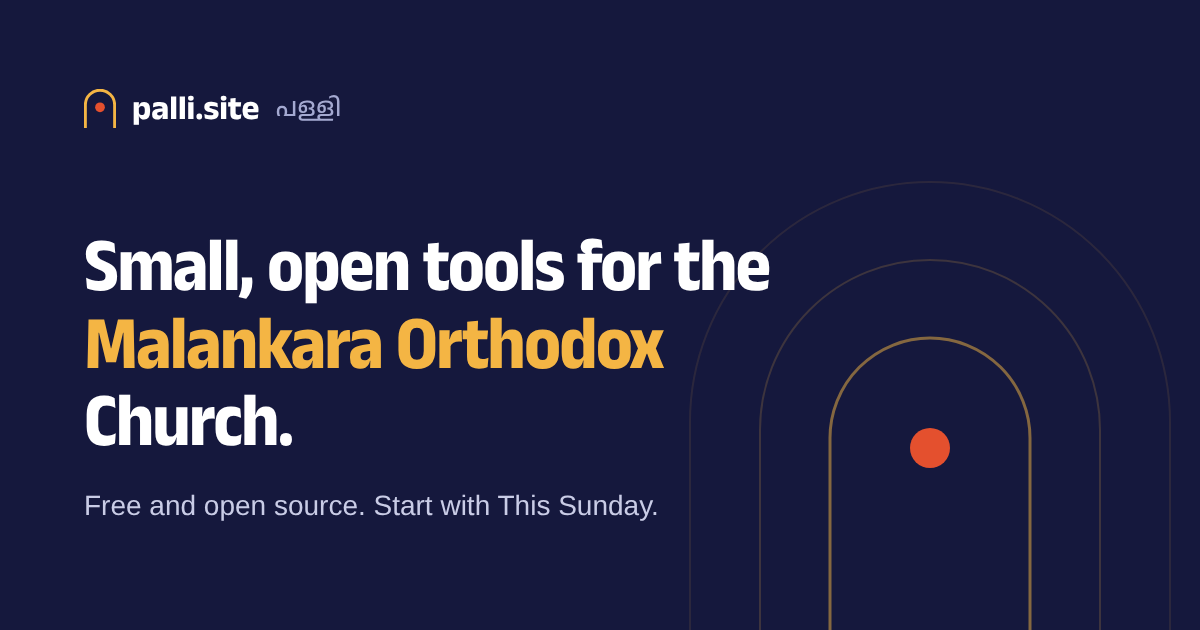
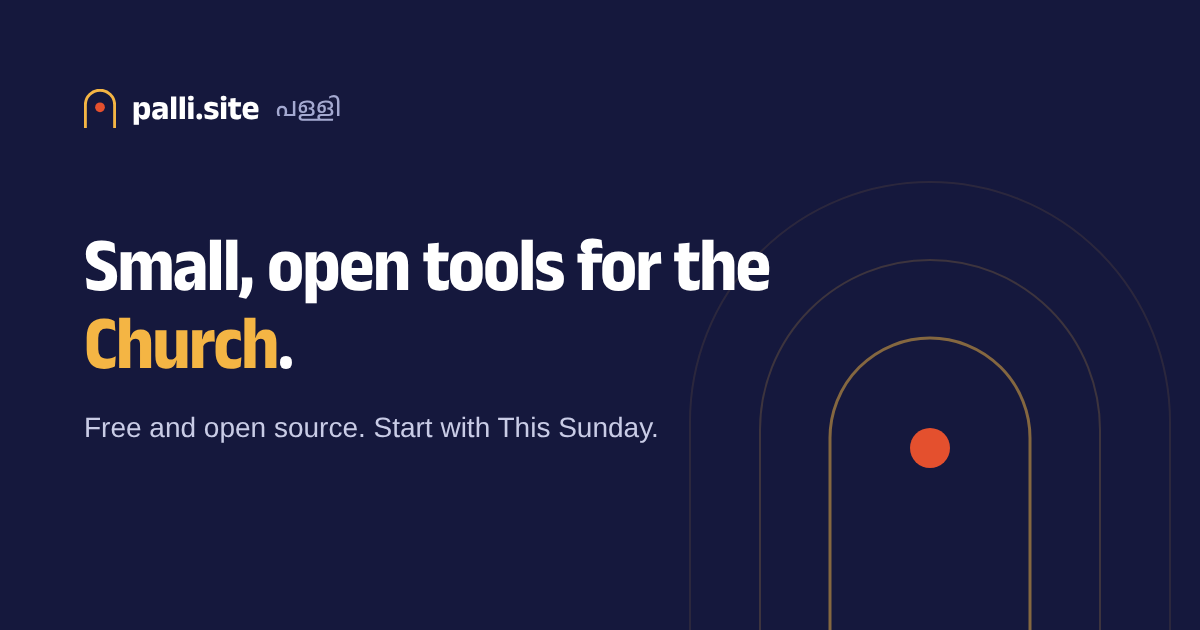
Drop the church name from the landing page headline and share text

Changed region(s): [[0.0617, 0.4825, 0.555, 0.6032], [0.0617, 0.6333, 0.555, 0.7238], [0.0617, 0.7841, 0.555, 0.8143]]

diff --git a/scripts/og.html b/scripts/og.html
@@ -17,6 +17,6 @@ p{margin:28px 0 0;font-size:28px;color:#c9cce6}
 <svg class="arches" viewBox="0 0 620 520" fill="none"><path d="M70 520V310a240 240 0 0 1 480 0v210" stroke="#F4B544" stroke-opacity=".10" stroke-width="2"/><path d="M140 520V318a170 170 0 0 1 340 0v202" stroke="#F4B544" stroke-opacity=".18" stroke-width="2"/><path d="M210 520V326a100 100 0 0 1 200 0v194" stroke="#F4B544" stroke-opacity=".5" stroke-width="3"/><circle cx="310" cy="336" r="20" fill="#E4502E"/></svg>
 <div class="t">
 <div class="brand"><svg viewBox="0 0 26 32" fill="none"><path d="M1 32V13a12 12 0 0 1 24 0v19" stroke="#F4B544" stroke-width="2.4"/><circle cx="13" cy="15" r="4" fill="#E4502E"/></svg>palli.site <span>പള്ളി</span></div>
-<h1>Small, open tools for the <em>Malankara Orthodox</em> Church.</h1>
+<h1>Small, open tools for the <em>Church</em>.</h1>
 <p>Free and open source. Start with This Sunday.</p>
 </div></div></body></html>

diff --git a/README.md b/README.md
@@ -1,6 +1,6 @@
 # palli.site · പള്ളി
 
-The landing page for [palli.site](https://palli.site), a home for small, free, open-source projects for the Malankara Orthodox Syrian Church. *Palli* means church.
+The landing page for [palli.site](https://palli.site), a home for small, free, open-source projects for the Church. *Palli* means church.
 
 Projects so far:
 
